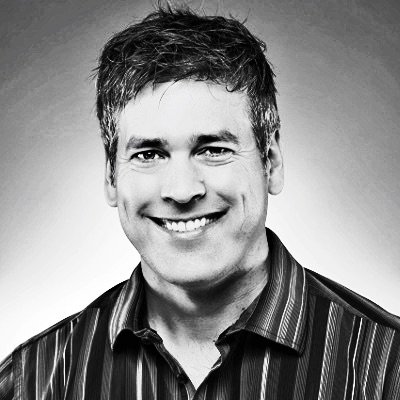
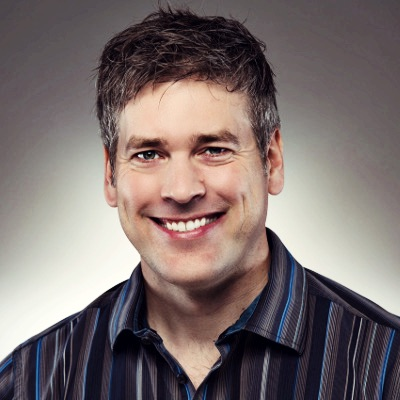
new pics

diff --git a/source/people.html.md b/source/people.html.md
@@ -146,6 +146,15 @@ unique: people
 	  *   [download-icon](/papers/2015-bjps-cultural-fitness-advance-access.pdf) Ramsey, G. and De Block, A. (2017) "Is cultural fitness hopelessly confused?" _British Journal for the Philosophy of Science_. [DOI: 10.1093/bjps/axv047](http://dx.doi.org/10.1093/bjps/axv047)
 	  *   [download-icon](/papers/2016-topoi-organism-centered.pdf) De Block, A. and Ramsey, G. (2016) "The organism-centered approach to cultural evolution." _Topoi_ 35: 283-290. [DOI: 10.1007/s11245-014-9283-2](http://dx.doi.org/10.1007/s11245-014-9283-2)
 	  
+1.  ![](people/durand.jpg)
+	      : **Pierre Durand**
+
+	   <https://www.wits.ac.za/ecl/lab-members/>
+
+	   Lab publications:
+
+	   *   [download-icon](/papers/2018-bt-pcd.pdf) Durand, P. and Ramsey, G. (2018) “The nature of programmed cell death” _Biological Theory_. [DOI: 10.1007/s13752-018-0311-0](https://doi.org/10.1007/s13752-018-0311-0)
+	  
 4.  ![](people/fuentes.jpg)
     : **Agustin Fuentes**
 
